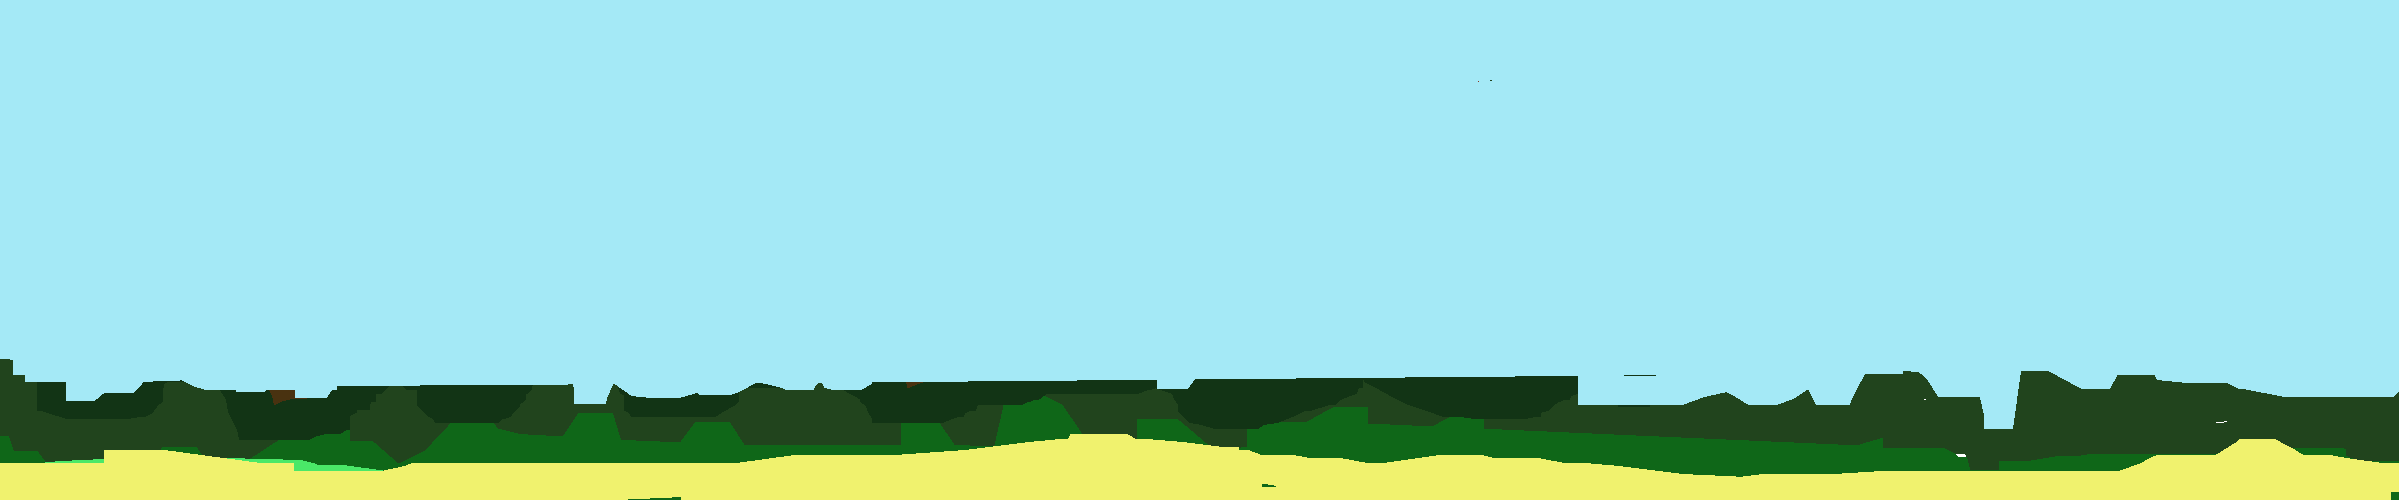
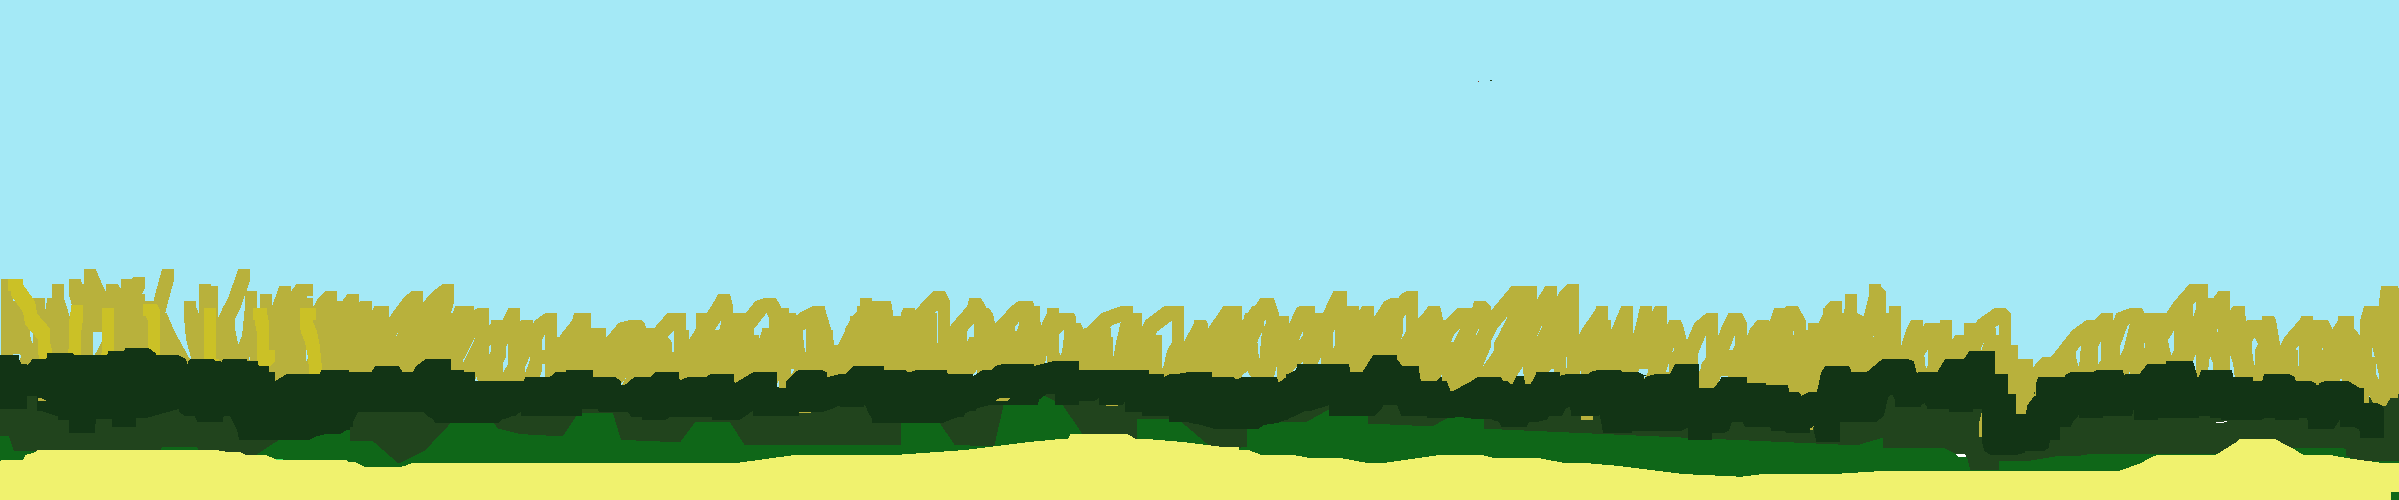
Fixed Background

diff --git a/script.js b/script.js
@@ -73,8 +73,12 @@ function updateScore(delta) {
   console.log(delta);
   let loopimagetree2 = 1
   let loopfortree4 = 0
+  var characterchange = 0
 
   if (score >= 50) {
+    if (loopfortree4) {
+        characterchange = 1
+    }
     if (loopimagetree2) {
         console.log("Passed 50") 
         backgroundElems.forEach(elem => {
@@ -83,7 +87,7 @@ function updateScore(delta) {
             loopimagetree2 = false
     }); 
     if (loopimagetree2 == false) {
-        console.log("Passed 50") 
+        console.log("Passed 100") 
         backgroundElems.forEach(elem => {
         elem.src = "imgs/Tree.png";
         if (score >= 150) {

diff --git a/dino.js b/dino.js
@@ -8,6 +8,10 @@ let backgroundElems = document.querySelectorAll(
   "img.background[data-background]"
 );
 
+// if (backgroundElems == "imgs/Tree.png") {
+//     console.log("Character Swap")
+// }
+
 const dinoElem = document.querySelector("[data-dino]");
 const JUMP_SPEED = 0.45;
 const GRAVITY = 0.0015;
